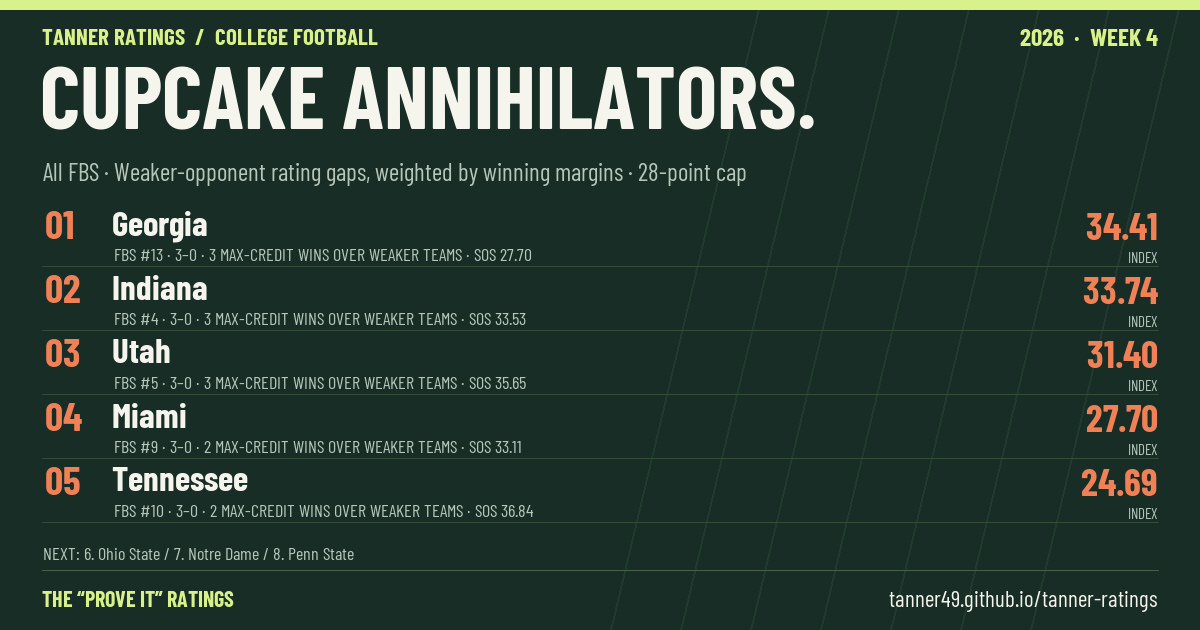
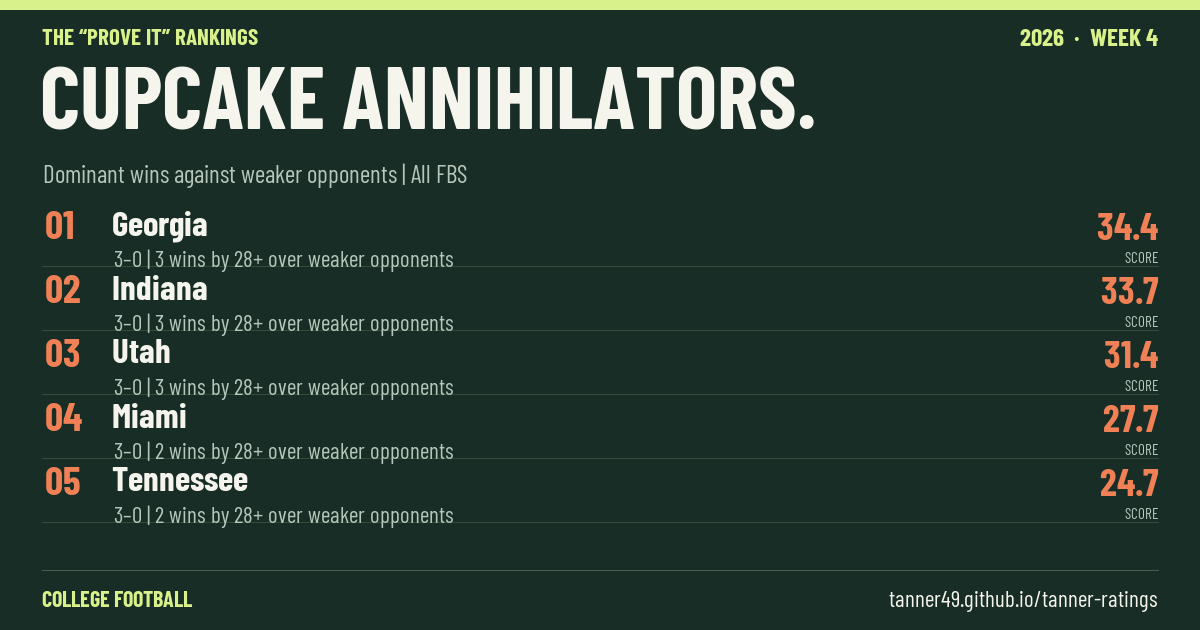
Rebrand college football page as Prove It Rankings

diff --git a/tanner-ratings/index.html b/tanner-ratings/index.html
@@ -4,40 +4,40 @@
   <meta charset="utf-8">
   <meta name="viewport" content="width=device-width, initial-scale=1">
   <meta name="theme-color" content="#132821">
-  <meta name="description" content="Tanner Ratings: independent college football rankings using modified Massey ratings. Explore weekly rankings, team histories, and matchups.">
-  <title>Tanner Ratings · College Football</title>
+  <meta name="description" content="The &ldquo;Prove It&rdquo; Rankings: independent college football rankings using modified Massey ratings. Explore weekly rankings, team histories, and matchups.">
+  <title>The &ldquo;Prove It&rdquo; Rankings · College Football</title>
   <link rel="icon" href="/favicon.ico">
   <link rel="stylesheet" href="/assets/site.css">
   <link rel="stylesheet" href="styles.css">
   <script src="app.js" defer></script>
   <!-- social-preview:start -->
   <meta property="og:type" content="website">
-  <meta property="og:site_name" content="Tanner Ratings">
-  <meta property="og:title" content="The Prove It Ratings | 2026 Week 4">
+  <meta property="og:site_name" content="The “Prove It” Rankings">
+  <meta property="og:title" content="The “Prove It” Rankings | 2026 Week 4">
   <meta property="og:description" content="FBS Top 10, Week 4 predictions, and toughest schedules. Results through Week 3.">
   <meta property="og:url" content="https://tanner49.github.io/tanner-ratings/">
-  <meta property="og:image" content="https://tanner49.github.io/tanner-ratings/share/2026/week-04/top10.png?v=ad6b7b19597b">
-  <meta property="og:image:secure_url" content="https://tanner49.github.io/tanner-ratings/share/2026/week-04/top10.png?v=ad6b7b19597b">
+  <meta property="og:image" content="https://tanner49.github.io/tanner-ratings/share/2026/week-04/top10.png?v=24999faf9ea6">
+  <meta property="og:image:secure_url" content="https://tanner49.github.io/tanner-ratings/share/2026/week-04/top10.png?v=24999faf9ea6">
   <meta property="og:image:type" content="image/png">
   <meta property="og:image:width" content="1200">
   <meta property="og:image:height" content="630">
-  <meta property="og:image:alt" content="2026 Week 4 FBS Top 10 Tanner Ratings">
+  <meta property="og:image:alt" content="2026 Week 4 FBS Top 10 Prove It Rankings">
   <meta name="twitter:card" content="summary_large_image">
-  <meta name="twitter:title" content="The Prove It Ratings | 2026 Week 4">
+  <meta name="twitter:title" content="The “Prove It” Rankings | 2026 Week 4">
   <meta name="twitter:description" content="FBS Top 10, Week 4 predictions, and toughest schedules. Results through Week 3.">
-  <meta name="twitter:image" content="https://tanner49.github.io/tanner-ratings/share/2026/week-04/top10.png?v=ad6b7b19597b">
-  <meta name="twitter:image:alt" content="2026 Week 4 FBS Top 10 Tanner Ratings">
+  <meta name="twitter:image" content="https://tanner49.github.io/tanner-ratings/share/2026/week-04/top10.png?v=24999faf9ea6">
+  <meta name="twitter:image:alt" content="2026 Week 4 FBS Top 10 Prove It Rankings">
   <!-- social-preview:end -->
 </head>
 <body>
-  <a class="skip-link" href="#main">Skip to content</a><header class="site-header"><a class="site-brand" href="/" aria-label="Tanner Phillips home"><span class="site-mark">TP<span>↗</span></span><span>TANNER PHILLIPS</span></a><nav aria-label="Main"><a href="/">About</a><a href="/cv/">Experience</a><a href="/tanner-ratings/" aria-current="page">College Football Ratings</a></nav></header><nav class="ratings-nav" aria-label="Ratings sections"><a href="#rankings">Rankings</a><a href="#matchups">Matchups</a><a href="#method">The model</a></nav>
+  <a class="skip-link" href="#main">Skip to content</a><header class="site-header"><a class="site-brand" href="/tanner-ratings/" aria-label="Prove It Rankings home"><span class="site-mark">PI<span>&#8599;</span></span><span>PROVE IT RANKINGS</span></a><nav aria-label="Main"><a href="/">About</a><a href="/cv/">Experience</a><a href="/tanner-ratings/" aria-current="page">Prove It Rankings</a></nav></header><nav class="ratings-nav" aria-label="Ratings sections"><a href="#rankings">Rankings</a><a href="#matchups">Matchups</a><a href="#method">The model</a></nav>
   <main id="main">
-    <section id="rankings" class="rankings-section"><div class="rankings-header"><div class="rankings-intro"><p class="eyebrow" id="edition">2026 SEASON</p><h1>The &ldquo;Prove It&rdquo; Ratings</h1><p class="ratings-tagline">All that matters is what&rsquo;s happened on the field.</p><p id="cutoff" class="snapshot-cutoff">Loading rankings&hellip;</p><div class="snapshot-stats"><span><strong id="stat-week">Week 4</strong></span><span><strong id="stat-games">&mdash;</strong> games</span><span><strong id="stat-teams">&mdash;</strong> teams</span></div><a id="download" class="text-link" download>Download CSV &darr;</a></div><aside class="leader-card" aria-label="Top rated FBS team"><div class="card-top"><span>THE FRONT RUNNER</span><span class="mini-mark">TR ↗</span></div><div class="leader-number">01<span>FBS</span></div><h2 id="leader-name">Loading…</h2><p id="leader-meta">Weekly ratings from the field.</p><div class="leader-stats"><div><span>MODEL RATING</span><strong id="leader-rating">—</strong></div><div><span>RECORD</span><strong id="leader-record">—</strong></div></div><div class="field-lines" aria-hidden="true"></div></aside></div><section class="share-gallery" aria-label="Weekly graphics"><div class="share-toolbar"><div class="share-options" role="group" aria-label="Choose a graphic"><button type="button" data-share="top10" aria-pressed="true">Top 10</button><button type="button" data-share="matchups" aria-pressed="false">Games to watch</button><button type="button" data-share="schedules" aria-pressed="false">Toughest schedules</button><button type="button" data-share="brawlers" aria-pressed="false">Brawlers</button><button type="button" data-share="cupcakes" aria-pressed="false">Cupcake annihilators</button></div><a id="share-download" href="share/2026/week-04/top10.png" download>Download PNG &darr;</a></div><img id="share-image" src="share/2026/week-04/top10.png" width="1200" height="630" alt="2026 Week 4 FBS Top 10 Tanner Ratings"><p class="fine-print">Download a weekly FBS graphic to share. Brawlers and Cupcake Annihilators describe how teams build their resumes; they do not change the rankings.</p><details class="graphic-methods"><summary>How the Brawlers and Cupcake Annihilators scores work</summary><p><strong>Brawlers (FBS Top 50):</strong> For each game decided by fewer than 28 points against an above-median FBS opponent, recalculate the entire model without that game. Keep positive rating lifts and weight them by opponent strength: zero at the FBS median, rising to one at the highest FBS rating. Sum those weighted lifts. Strong competitive performances count; simply losing to a good team does not. The number is an index, not additive rating points or a weekly rank change.</p><p><strong>Cupcake Annihilators (all FBS):</strong> In each win over a lower-rated opponent, multiply the rating gap by the fraction of maximum margin credit earned. A 28-point win receives full credit; smaller wins receive proportionally less using the model's winner bonus. Average across all games, including losses and wins over stronger teams as zero. Higher scores mean more dominance against weaker opposition, not proof that a team is overrated.</p><p>Both use the selected week's ratings and include the existing prior. These are exploratory descriptions of results, not tested improvements to predictions. <a id="profile-data" href="share/2026/week-04/profile-metrics.json" download>Download the scores and game-by-game calculations</a>.</p></details></section><div class="controls"><label class="search-label"><span>Find a team</span><input id="search" type="search" placeholder="Search teams…" autocomplete="off"></label><label><span>Division</span><select id="division"><option value="fbs">FBS</option><option value="fcs">FCS</option><option value="ii">Division II</option><option value="iii">Division III</option><option value="unknown">Other / unclassified</option><option value="all">All divisions</option></select></label><label><span>Conference</span><select id="conference"><option value="all">All conferences</option></select></label><label><span>Week</span><select id="snapshot" aria-label="Rankings week"></select></label></div><div class="board-caption"><span id="result-count" role="status" aria-live="polite">Loading rankings…</span><span id="movement-note">Rank history starts in Week 4.</span></div><div class="table-wrap"><table><thead><tr><th scope="col">Rank</th><th scope="col">Move</th><th scope="col">Team</th><th scope="col">Record</th><th scope="col"><button id="sort-rating" class="sort-button" aria-label="Sort by model rating">Rating ↓</button></th><th scope="col"><button id="sort-sos" class="sort-button" aria-label="Sort by schedule strength">Schedule ↕</button></th><th scope="col">Trend</th></tr></thead><tbody id="ranking-body"></tbody></table></div><p id="empty" hidden>No teams match these filters. Try another conference or search.</p><button id="show-more" class="outline-button" hidden>Show all teams</button><p class="fine-print">Select a team to explore its season. Higher ratings and schedule strength indicate stronger teams and opponents. Rankings are within the selected division.</p></section>
+    <section id="rankings" class="rankings-section"><div class="rankings-header"><div class="rankings-intro"><p class="eyebrow" id="edition">2026 SEASON</p><h1>The &ldquo;Prove It&rdquo; Rankings</h1><p class="ratings-tagline">All that matters is what&rsquo;s happened on the field.</p><p id="cutoff" class="snapshot-cutoff">Loading rankings&hellip;</p><div class="snapshot-stats"><span><strong id="stat-week">Week 4</strong></span><span><strong id="stat-games">&mdash;</strong> games</span><span><strong id="stat-teams">&mdash;</strong> teams</span></div><a id="download" class="text-link" download>Download CSV &darr;</a></div><aside class="leader-card" aria-label="Top rated FBS team"><div class="card-top"><span>THE FRONT RUNNER</span><span class="mini-mark">PI ↗</span></div><div class="leader-number">01<span>FBS</span></div><h2 id="leader-name">Loading…</h2><p id="leader-meta">Weekly ratings from the field.</p><div class="leader-stats"><div><span>MODEL RATING</span><strong id="leader-rating">—</strong></div><div><span>RECORD</span><strong id="leader-record">—</strong></div></div><div class="field-lines" aria-hidden="true"></div></aside></div><section class="share-gallery" aria-label="Weekly graphics"><div class="share-toolbar"><div class="share-options" role="group" aria-label="Choose a graphic"><button type="button" data-share="top10" aria-pressed="true">Top 10</button><button type="button" data-share="matchups" aria-pressed="false">Games to watch</button><button type="button" data-share="schedules" aria-pressed="false">Toughest schedules</button><button type="button" data-share="brawlers" aria-pressed="false">Brawlers</button><button type="button" data-share="cupcakes" aria-pressed="false">Cupcake annihilators</button></div><a id="share-download" href="share/2026/week-04/top10.png" download>Download PNG &darr;</a></div><img id="share-image" src="share/2026/week-04/top10.png" width="1200" height="630" alt="2026 Week 4 FBS Top 10 Prove It Rankings"><p class="fine-print">Download a weekly FBS graphic to share. Brawlers and Cupcake Annihilators describe how teams build their resumes; they do not change the rankings.</p><details class="graphic-methods"><summary>How the Brawlers and Cupcake Annihilators scores work</summary><p><strong>Brawlers (FBS Top 50):</strong> For each game decided by fewer than 28 points against an above-median FBS opponent, recalculate the entire model without that game. Keep positive rating lifts and weight them by opponent strength: zero at the FBS median, rising to one at the highest FBS rating. Sum those weighted lifts. Strong competitive performances count; simply losing to a good team does not. The number is an index, not additive rating points or a weekly rank change.</p><p><strong>Cupcake Annihilators (all FBS):</strong> In each win over a lower-rated opponent, multiply the rating gap by the fraction of maximum margin credit earned. A 28-point win receives full credit; smaller wins receive proportionally less using the model's winner bonus. Average across all games, including losses and wins over stronger teams as zero. Higher scores mean more dominance against weaker opposition, not proof that a team is overrated.</p><p>Both use the selected week's ratings and include the existing prior. These are exploratory descriptions of results, not tested improvements to predictions. <a id="profile-data" href="share/2026/week-04/profile-metrics.json" download>Download the scores and game-by-game calculations</a>.</p></details></section><div class="controls"><label class="search-label"><span>Find a team</span><input id="search" type="search" placeholder="Search teams…" autocomplete="off"></label><label><span>Division</span><select id="division"><option value="fbs">FBS</option><option value="fcs">FCS</option><option value="ii">Division II</option><option value="iii">Division III</option><option value="unknown">Other / unclassified</option><option value="all">All divisions</option></select></label><label><span>Conference</span><select id="conference"><option value="all">All conferences</option></select></label><label><span>Week</span><select id="snapshot" aria-label="Rankings week"></select></label></div><div class="board-caption"><span id="result-count" role="status" aria-live="polite">Loading rankings…</span><span id="movement-note">Rank history starts in Week 4.</span></div><div class="table-wrap"><table><thead><tr><th scope="col">Rank</th><th scope="col">Move</th><th scope="col">Team</th><th scope="col">Record</th><th scope="col"><button id="sort-rating" class="sort-button" aria-label="Sort by model rating">Rating ↓</button></th><th scope="col"><button id="sort-sos" class="sort-button" aria-label="Sort by schedule strength">Schedule ↕</button></th><th scope="col">Trend</th></tr></thead><tbody id="ranking-body"></tbody></table></div><p id="empty" hidden>No teams match these filters. Try another conference or search.</p><button id="show-more" class="outline-button" hidden>Show all teams</button><p class="fine-print">Select a team to explore its season. Higher ratings and schedule strength indicate stronger teams and opponents. Rankings are within the selected division.</p></section>
     <section id="matchups" class="matchups-section"><div class="section-heading"><div><p class="eyebrow">02 / HEAD TO HEAD</p><h2>Matchups &amp; predictions</h2></div><span class="small-note">Next week. The model’s lines.</span></div><div class="matchup-layout"><div class="compare-card"><h3>Build a matchup</h3><p>Choose two rated teams. Neutral-field comparison, no home advantage.</p><div class="compare-selects"><label><span>Team A</span><select id="team-a"></select></label><span class="versus">VS</span><label><span>Team B</span><select id="team-b"></select></label></div><div id="comparison" class="comparison" aria-live="polite"></div></div><div class="fixture-panel"><div class="fixture-heading"><h3 id="fixtures-title">On the horizon</h3><span>HIGHEST COMBINED RATINGS FIRST</span></div><div id="fixtures"></div></div></div></section>
-    <section id="method" class="method-section"><div><p class="eyebrow">03 / UNDER THE HOOD</p><h2>Earned on the field.<br>Connected by the schedule.</h2><p>This is Tanner Ratings: an independent take on Massey’s least-squares method. Each result connects two teams. Solving those connections together estimates how strong each team has been against its competition.</p><a class="text-link" href="https://github.com/tanner49/PublicCode/tree/main/football">Explore the code ↗</a></div><div class="method-steps"><article><span>01</span><div><h3>Winning matters. Blowouts have limits.</h3><p>Margins are capped symmetrically at 28 points, then a 2.75-point winner bonus is added. A 50-point win carries the same target as a 28-point win. Predicted lines use rating differences as point margins, rounded to the nearest half-point, with no home-field adjustment.</p></div></article><article><span>02</span><div><h3>The schedule connects everything.</h3><p>All supplied opponents enter the calculation. Game equations are weighted by the teams’ games played. Schedule strength is the average current rating of opponents already faced.</p></div></article><article><span>03</span><div><h3>A little history. A fresh start.</h3><p>Last season’s ratings enter as a Week 0 result against a zero-rated baseline, using a one-game prior setting (weight 1.0). Their influence diminishes as this season’s games accumulate. Early-season results can be volatile, and separate schedule networks make cross-division comparisons less reliable.</p></div></article></div></section>
+    <section id="method" class="method-section"><div><p class="eyebrow">03 / UNDER THE HOOD</p><h2>Earned on the field.<br>Connected by the schedule.</h2><p>The &ldquo;Prove It&rdquo; Rankings use an independent take on Massey’s least-squares method. Each result connects two teams. Solving those connections together estimates how strong each team has been against its competition.</p><a class="text-link" href="https://github.com/tanner49/PublicCode/tree/main/football">Explore the code ↗</a></div><div class="method-steps"><article><span>01</span><div><h3>Winning matters. Blowouts have limits.</h3><p>Margins are capped symmetrically at 28 points, then a 2.75-point winner bonus is added. A 50-point win carries the same target as a 28-point win. Predicted lines use rating differences as point margins, rounded to the nearest half-point, with no home-field adjustment.</p></div></article><article><span>02</span><div><h3>The schedule connects everything.</h3><p>All supplied opponents enter the calculation. Game equations are weighted by the teams’ games played. Schedule strength is the average current rating of opponents already faced.</p></div></article><article><span>03</span><div><h3>A little history. A fresh start.</h3><p>Last season’s ratings enter as a Week 0 result against a zero-rated baseline, using a one-game prior setting (weight 1.0). Their influence diminishes as this season’s games accumulate. Early-season results can be volatile, and separate schedule networks make cross-division comparisons less reliable.</p></div></article></div></section>
     <div id="error" class="error" role="alert" hidden></div>
   </main>
-  <footer><a class="footer-brand" href="./">TANNER RATINGS ↗</a><p>Built by Tanner Phillips. Independent college football ratings.</p><a href="/">Back to the personal site ↗</a></footer>
+  <footer><a class="footer-brand" href="./">PROVE IT RANKINGS ↗</a><p>Built by Tanner Phillips. Independent college football ratings.</p><a href="/">Back to the personal site ↗</a></footer>
   <dialog id="team-dialog"><div class="dialog-heading"><p class="eyebrow">TEAM DOSSIER</p><button id="close-dialog" class="close-button" aria-label="Close team details">×</button></div><div id="team-detail"></div></dialog>
   <noscript><p class="error">Enable JavaScript to explore rankings, or <a href="data/2026/week-04.csv">download the inaugural Week 4 rankings CSV</a>.</p></noscript>
 </body>

diff --git a/sitemap/index.html b/sitemap/index.html
@@ -11,8 +11,8 @@
   <link rel="stylesheet" href="/assets/site.css">
 </head>
 <body class="personal-page">
-  <a class="skip-link" href="#main">Skip to content</a><header class="site-header"><a class="site-brand" href="/" aria-label="Tanner Phillips home"><span class="site-mark">TP<span>↗</span></span><span>TANNER PHILLIPS</span></a><nav aria-label="Main"><a href="/">About</a><a href="/cv/">Experience</a><a href="/tanner-ratings/">College Football Ratings</a></nav></header>
-  <main id="main" class="personal-main"><div class="page-intro"><h1>Sitemap<span class="accent">.</span></h1><ul class="page-links"><li><a href="/">About</a></li><li><a href="/cv/">Experience and education</a></li><li><a href="/tanner-ratings/">College football ratings</a></li></ul></div></main>
+  <a class="skip-link" href="#main">Skip to content</a><header class="site-header"><a class="site-brand" href="/" aria-label="Tanner Phillips home"><span class="site-mark">TP<span>↗</span></span><span>TANNER PHILLIPS</span></a><nav aria-label="Main"><a href="/">About</a><a href="/cv/">Experience</a><a href="/tanner-ratings/">Prove It Rankings</a></nav></header>
+  <main id="main" class="personal-main"><div class="page-intro"><h1>Sitemap<span class="accent">.</span></h1><ul class="page-links"><li><a href="/">About</a></li><li><a href="/cv/">Experience and education</a></li><li><a href="/tanner-ratings/">Prove It Rankings</a></li></ul></div></main>
   <footer class="site-footer"><span>Tanner Phillips, PhD</span><div><a href="https://www.linkedin.com/in/tanner-phillips-phd-58798b67/">LinkedIn ↗</a><a href="https://github.com/tanner49">GitHub ↗</a><a href="mailto:tanner.matthew.phillips@gmail.com">Email ↗</a></div></footer>
 </body>
 </html>

diff --git a/404.html b/404.html
@@ -11,7 +11,7 @@
   <link rel="stylesheet" href="/assets/site.css">
 </head>
 <body class="personal-page">
-  <a class="skip-link" href="#main">Skip to content</a><header class="site-header"><a class="site-brand" href="/" aria-label="Tanner Phillips home"><span class="site-mark">TP<span>↗</span></span><span>TANNER PHILLIPS</span></a><nav aria-label="Main"><a href="/">About</a><a href="/cv/">Experience</a><a href="/tanner-ratings/">College Football Ratings</a></nav></header>
+  <a class="skip-link" href="#main">Skip to content</a><header class="site-header"><a class="site-brand" href="/" aria-label="Tanner Phillips home"><span class="site-mark">TP<span>↗</span></span><span>TANNER PHILLIPS</span></a><nav aria-label="Main"><a href="/">About</a><a href="/cv/">Experience</a><a href="/tanner-ratings/">Prove It Rankings</a></nav></header>
   <main id="main" class="personal-main"><div class="page-intro"><p class="overline">404</p><h1>Page not found<span class="accent">.</span></h1><p>This page may have moved or been removed.</p><p><a href="/">Return to the homepage ↗</a></p></div></main>
   <footer class="site-footer"><span>Tanner Phillips, PhD</span><div><a href="https://www.linkedin.com/in/tanner-phillips-phd-58798b67/">LinkedIn ↗</a><a href="https://github.com/tanner49">GitHub ↗</a><a href="mailto:tanner.matthew.phillips@gmail.com">Email ↗</a></div></footer>
 </body>

diff --git a/cv/index.html b/cv/index.html
@@ -11,7 +11,7 @@
   <link rel="stylesheet" href="/assets/site.css">
 </head>
 <body class="personal-page">
-  <a class="skip-link" href="#main">Skip to content</a><header class="site-header"><a class="site-brand" href="/" aria-label="Tanner Phillips home"><span class="site-mark">TP<span>↗</span></span><span>TANNER PHILLIPS</span></a><nav aria-label="Main"><a href="/">About</a><a href="/cv/" aria-current="page">Experience</a><a href="/tanner-ratings/">College Football Ratings</a></nav></header>
+  <a class="skip-link" href="#main">Skip to content</a><header class="site-header"><a class="site-brand" href="/" aria-label="Tanner Phillips home"><span class="site-mark">TP<span>↗</span></span><span>TANNER PHILLIPS</span></a><nav aria-label="Main"><a href="/">About</a><a href="/cv/" aria-current="page">Experience</a><a href="/tanner-ratings/">Prove It Rankings</a></nav></header>
   <main id="main" class="personal-main">
     <div class="page-intro"><p class="overline">BACKGROUND</p><h1>Experience &amp; education<span class="accent">.</span></h1><p>For my full professional profile, see <a href="https://www.linkedin.com/in/tanner-phillips-phd-58798b67/">LinkedIn ↗</a>.</p></div>
     <section class="experience-list" aria-label="Professional experience">

diff --git a/index.html b/index.html
@@ -11,7 +11,7 @@
   <link rel="stylesheet" href="/assets/site.css">
 </head>
 <body class="personal-page">
-  <a class="skip-link" href="#main">Skip to content</a><header class="site-header"><a class="site-brand" href="/" aria-label="Tanner Phillips home"><span class="site-mark">TP<span>↗</span></span><span>TANNER PHILLIPS</span></a><nav aria-label="Main"><a href="/" aria-current="page">About</a><a href="/cv/">Experience</a><a href="/tanner-ratings/">College Football Ratings</a></nav></header>
+  <a class="skip-link" href="#main">Skip to content</a><header class="site-header"><a class="site-brand" href="/" aria-label="Tanner Phillips home"><span class="site-mark">TP<span>↗</span></span><span>TANNER PHILLIPS</span></a><nav aria-label="Main"><a href="/" aria-current="page">About</a><a href="/cv/">Experience</a><a href="/tanner-ratings/">Prove It Rankings</a></nav></header>
   <main id="main" class="personal-main">
     <section class="profile" aria-labelledby="profile-title">
       <div class="profile-copy">

diff --git a/tanner-ratings/app.js b/tanner-ratings/app.js
@@ -117,7 +117,7 @@ function renderShareGraphic() {
   $('profile-data').href = `share/${snapshot.season}/week-${String(snapshot.week).padStart(2, '0')}/profile-metrics.json`;
   $('share-image').alt = `${snapshot.season} Week ${snapshot.week}: ${title}`;
   $('share-download').href = path;
-  $('share-download').download = `tanner-ratings-${snapshot.season}-week-${snapshot.week}-${selectedShare}.png`;
+  $('share-download').download = `prove-it-rankings-${snapshot.season}-week-${snapshot.week}-${selectedShare}.png`;
   document.querySelectorAll('[data-share]').forEach(button => button.setAttribute('aria-pressed', String(button.dataset.share === selectedShare)));
 }
 document.querySelectorAll('[data-share]').forEach(button => button.addEventListener('click', () => {
